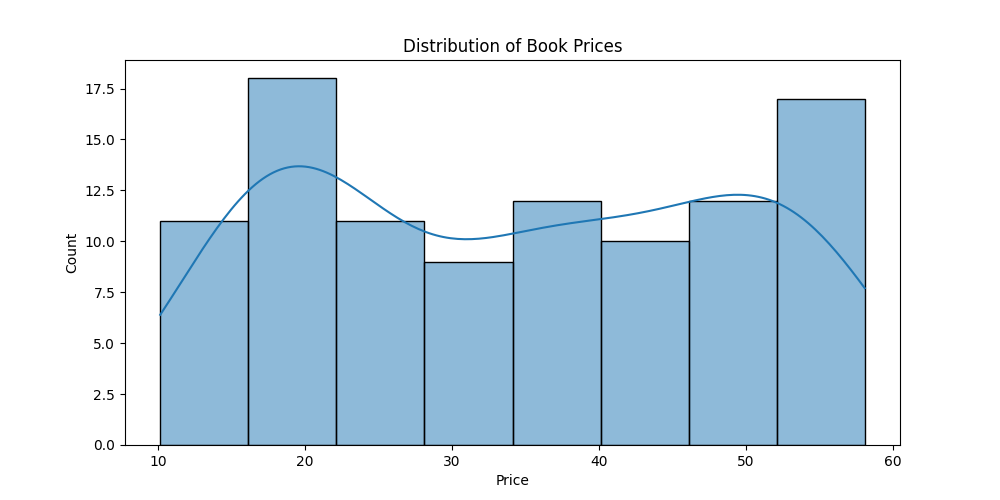
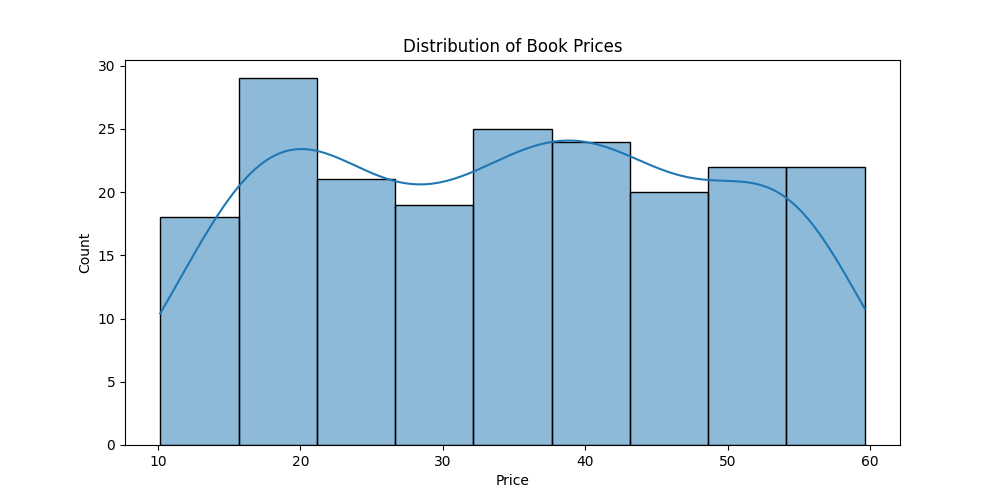
Completed web-scrapping project

diff --git a/test_app.py b/test_app.py
@@ -1,0 +1,55 @@
+# test_scraper.py
+import pytest
+import pandas as pd
+from app import parse_books_from_html, clean_data, scrape_books_async
+
+sample_html = """
+<html>
+<head><title>Test Books</title></head>
+<body>
+    <article class="product_pod">
+        <h3><a title="Book A"></a></h3>
+        <p class="price_color">£23.88</p>
+        <p class="instock availability">In stock</p>
+        <p class="star-rating Three"></p>
+    </article>
+    <article class="product_pod">
+        <h3><a title="Book B"></a></h3>
+        <p class="price_color">£17.50</p>
+        <p class="instock availability">In stock</p>
+        <p class="star-rating Five"></p>
+    </article>
+</body>
+</html>
+"""
+
+def test_parse_books_from_html():
+    books = parse_books_from_html(sample_html)
+    assert isinstance(books, list)
+    assert len(books) == 2
+    assert books[0]['title'] == 'Book A'
+    assert books[1]['price'] == 17.50
+    assert books[1]['rating'] == 'Five'
+
+def test_clean_data():
+    raw = pd.DataFrame([
+        {"title": "Book A", "price": 10.0, "availability": "In stock", "rating": "Three"},
+        {"title": "Book B", "price": 15.0, "availability": "In stock", "rating": "Five"},
+        {"title": "Book C", "price": 8.0, "availability": "In stock", "rating": "Unknown"}
+    ])
+    cleaned = clean_data(raw)
+    assert 'numeric_rating' in cleaned.columns
+    assert cleaned.shape[0] == 2  # "Unknown" should be dropped
+    assert cleaned['numeric_rating'].tolist() == [3, 5]
+
+@pytest.mark.asyncio
+async def test_scrape_books_async_one_page(monkeypatch):
+    async def mock_fetch_page(session, url, page):
+        return (page, sample_html)
+
+    from app import fetch_page
+    monkeypatch.setattr("app.fetch_page", mock_fetch_page)
+
+    df = await scrape_books_async(num_pages=1)
+    assert not df.empty
+    assert list(df.columns) == ['title', 'price', 'availability', 'rating']

diff --git a/app.py b/app.py
@@ -76,6 +76,7 @@ async def scrape_books_async(num_pages=5):
 
 @time_execution
 def scrape_books(num_pages=5):
+    print(num_pages)
     return asyncio.run(scrape_books_async(num_pages))
 
 
@@ -137,23 +138,23 @@ def visualize_data(df):
 
 def main():
     # Step 1: Scrape the data
-    df = scrape_books(num_pages=5)
+    df = scrape_books(num_pages=10)
 
     # Step 2: Clean and transform the data
-    df = clean_data(df)
+    # df = clean_data(df)
 
     # Step 3: Explore the cleaned data
     print("DataFrame Head:")
     print(df.head())
 
-    print("\nSummary Statistics on Price:")
+    """ print("\nSummary Statistics on Price:")
     print(df['price'].describe())
 
     print("\nValue Counts for Ratings:")
-    print(df['rating'].value_counts())
+    print(df['rating'].value_counts()) """
 
     # Step 4: Visualize the data
-    visualize_data(df)
+    # visualize_data(df)
 
     # Step 5: Save the cleaned data to a CSV file
     df.to_csv('books_data.csv', index=False)
